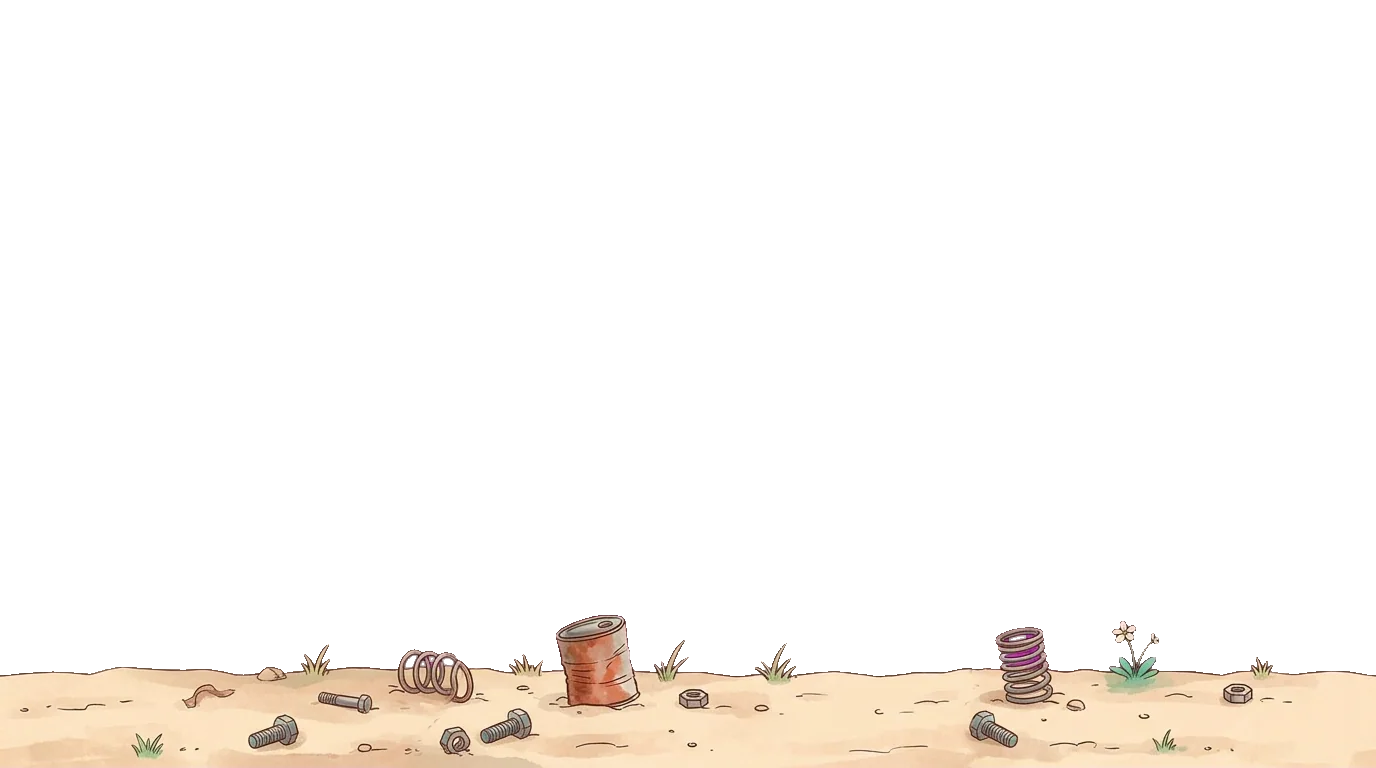
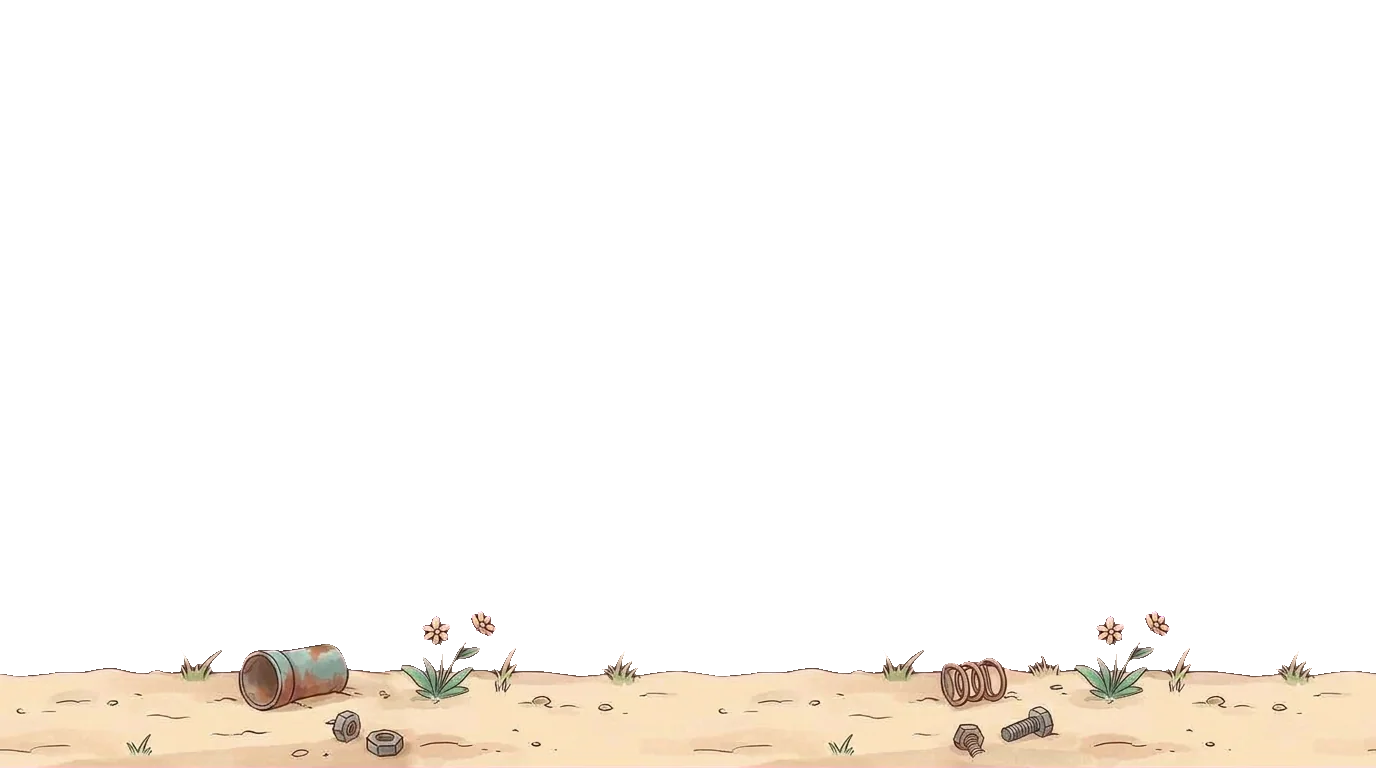
feat(junkyard): redrawn background bands without seams, first gear pictures

diff --git a/assets-src/PROMPTS.md b/assets-src/PROMPTS.md
@@ -237,7 +237,16 @@ Notes from real Gemini runs; add new ones here.
 - A cut-out of a beard (2026-11-09) once came with a second, pixelated copy of it around the first; asking
   again with "keep ONE beard, do not add a second beard or any other shape, smooth, not pixelated" was
   clean. A beard on the template gets its own drawn mouth in the moustache; ask for "only hair, no mouth".
-
+- Redrawing a world's layers clean (junkyard, 2026-11-15): the old layer (far) or the old sheet of strips
+  (mid, near) attached with "redraw clean, copying the composition is wanted" came back with the same
+  content and style on the first try. Attach the old **sheet**, not the processed layer (a strip at the
+  bottom of a tall magenta frame), so the answer is a sheet again. The mid sheet came on a dull pink key
+  (233,61,184) again although "pure magenta #FF00FF, not dull pink" was asked, and the near strips again
+  stopped about 30 px short of both side edges; `strips` + `quilt` handle both.
+- The far layer can be joined without Gemini: `prep <far> <dir> 0.14` and `quilt <dir> <far> <out>` with the
+  far itself as donor filled the middle with a slice of the same scene, the sky one tone across the gap
+  (junkyard, 2026-11-15, when the daily limit stopped the seam repaint). A few barrels show twice, which
+  reads as a row of barrels; a scene with one big landmark in the slice would show it twice.
 ---
 
 ## 1. Tapko and friends (companions)
@@ -952,9 +961,9 @@ first, then attach it to the other prompts ("the same robot as in the attached i
 ### Backgrounds (section 3 prompts)
 | File | SCENE / LAYER | Height | Status |
 |---|---|---|---|
-| `bg-junkyard-far.jpg` | a friendly junkyard in soft daylight with soft hills of old things far away, a rusty but cheerful crane and a light blue sky | full | done 2026-10-22 |
-| `bg-junkyard-mid.jpg` | soft piles of old tires, wooden crates and round metal cans | 45 % | |
-| `bg-junkyard-near.jpg` | a few big coiled metal springs, large bolts and nuts and thick grass tufts | 25 % | done 2026-10-22 (reference for the strip prompt) |
+| `bg-junkyard-far.jpg` | a friendly junkyard in soft daylight with soft hills of old things far away, a rusty but cheerful crane and a light blue sky | full | redone 2026-11-15 (the old layer attached, "redraw clean, copying the composition is wanted"; seam by `quilt` from itself with a 14 % gap, as the daily limit was reached before a Gemini seam repaint: the sky stays one tone) |
+| `bg-junkyard-mid.jpg` | soft piles of old tires, wooden crates and round metal cans | 45 % | redone 2026-11-15 (the old sheet attached; sheet of two strips on a dull pink key, turned to #FF00FF locally; strip 1 quilted with itself, lifted 81 px) |
+| `bg-junkyard-near.jpg` | a few big coiled metal springs, large bolts and nuts and thick grass tufts | 25 % | redone 2026-11-15 (the old sheet attached; strip 3 of three quilted with itself; its sand from row 675 as before) |
 | `bg-workshop-far.jpg` | the inside of a warm cozy workshop with wooden walls, shelves with jars of screws, hanging tools and a round window | full | |
 | `bg-workshop-mid.jpg` | a workbench with drawers and a vise, a tool cabinet, a mint toolbox, stacked crates, a pegboard with tools, a drill press, a stool and a barrel with rods | 45 % | done 2026-10-23 |
 | `bg-workshop-near.jpg` | a conveyor belt across the whole image with rollers below, and on it in one row a gear, an open crate, a robot arm part, copper wire, a box of bolts, a wheel, a battery and a small robot head; nothing behind them | 25 % | done 2026-10-23 |
@@ -978,6 +987,19 @@ first, then attach it to the other prompts ("the same robot as in the attached i
 | `obj-spring.jpg` | a big coiled metal spring with a friendly face, bouncing | magenta |
 | `obj-magnet.jpg` | a red and silver horseshoe magnet hanging on a short chain from above | green |
 | `obj-cable-knot.jpg` | a big tangled knot of soft colorful cables with a friendly face | magenta |
+| | **World 6 rework (plan `.todo/junkyard-world.md`, 2026-11-15):** the section 4 prompt with "NO face, NO eyes, no mouth: it is a plain thing." instead of its friendly-faces sentence, and "no numbers" added to its no-text sentence | |
+| `obj-gear-1.jpg` | ONE old golden gear (warm gold #E8B848, darker #B8862E), a little worn, with a round hole in the middle. Strictly front view, not tilted; NOTHING else (done, first try) | magenta |
+| `obj-gear-2.jpg` | ONE old steel gear in blue-grey steel (#A9B7C6, darker #6F7F92, light #DCE4EC), with more and smaller teeth and a few round holes in its body; as gear 1 otherwise (done, first try) | magenta |
+| `obj-gear-3.jpg` | ONE old copper gear (warm copper #C8743E, darker #8E4A24, light #E9A06A) with a few big chunky teeth and spokes in the middle; as gear 1 otherwise (done, first try) | magenta |
+| `obj-gear-4.jpg` | ONE old gear painted bright blue (#3F7FD0, darker #2A5A9E), the paint a little chipped at the teeth so grey metal shows, with a round hole in the middle; as gear 1 otherwise | magenta |
+| `obj-gear-box.jpg` | ONE brown cardboard box, its four top flaps standing open upward, empty, with a simple dark brown gear sign printed on its front side. Front view, a little from above; NOTHING else, nothing in or around the box | magenta |
+| `obj-tire-pile-1.jpg` | ONE big pile of old dark grey rubber car tires stacked and leaning on each other, about as wide as tall. Side view; NOTHING else: no grass, no ground, no other junk | magenta |
+| `obj-tire-pile-2.jpg`, `-3` | **attach `obj-tire-pile-1.jpg`**: "draw a pile of old tires in exactly the same drawing style, colors and outline as the attached pile, but smaller: about half as big (2) / a small pile of only two or three tires (3); NO face, NOTHING else" | magenta |
+| `obj-bin.jpg` | ONE old round metal rubbish bin in blue-grey steel (#A9B7C6, darker #6F7F92), open: its round lid leans tilted on the bin's rim, empty inside. Side view, a little from above; NOTHING else, no rubbish around it | magenta |
+| `obj-screw-pile.jpg` | ONE low wide pile of old screws, nuts and small gears in blue-grey steel (#A9B7C6, darker #6F7F92) with a few copper and brass ones, about three times wider than tall. Side view; NOTHING else: no ground, no grass | magenta |
+| `obj-junk-pile-1.jpg` | ONE big pile of mixed old things in a junkyard: a wooden crate, an old tire, a rusty tin can, a bent pipe, a wheel, a spring and a metal plate, heaped together, a bit wider than tall. Side view; NOTHING else: no grass, no ground | magenta |
+| `obj-junk-pile-2.jpg`, `-3` | **attach `obj-junk-pile-1.jpg`**: as the tire piles 2 and 3, "a pile of mixed old things ... about half as big (2) / a small heap of only three or four things (3)" | magenta |
+| `robot-broken-lying.jpg` | **attach `robot-broken.jpg`**, the section 4 prompt without its face sentence: "the same small round robot as in the attached picture, in exactly the same drawing style and colors (light grey-blue metal body, soft rust spots, one leg missing, bent antenna with a tiny orange ball, small claw hands, rivets), but switched off and lying flat on his back on the ground, seen from the side: his head on the left, his one leg on the right, his body horizontal, arms resting at his sides. The body pose must be completely different from the attached picture: clearly lying, not standing, not sitting. His dark glass face is dark and empty: the eyes are switched off, no glowing eyes, no light"; "no ground line" added to the background sentence | magenta |
 | **Workshop** | | |
 | `obj-gear.jpg` | a shiny golden gear | magenta |
 | `obj-bolt.jpg` | a big silver bolt with a nut | magenta |

diff --git a/.todo/junkyard-world.md b/.todo/junkyard-world.md
@@ -177,10 +177,18 @@ first level.
   story" spec now checks Bolt walking in the workshop's first level.
 
 ### Step 2 - Pictures and backgrounds
-- [ ] Prompts into section 7, generation via skill `gemini-images` in a subagent, backgrounds by
+- [x] Prompts into section 7, generation via skill `gemini-images` in a subagent, backgrounds by
   the section 3 procedure, the magenta pixel check, `npm run assets`; lessons recorded.
-- [ ] Checks: `npm run assets` clean, a screenshot of a world 6 level (still the placeholder) with
-  the new bands, the seams looked at in `preview`.
+- [x] Checks: `npm run assets` clean, the seams looked at in `preview`.
+
+- Progress (2026-11-15): backgrounds and `obj-gear-1..3` done; Gemini's daily limit stopped the
+  rest, which moved to step 5b (the modes draw their fallbacks until then). Decisions: the far
+  seam was joined by `quilt` with the far picture as its own donor (no Gemini repaint, limit);
+  mid is strip 1 of the redrawn sheet lifted 81 px, near strip 3; the near band keeps the old
+  height (sand from row 675, the character's path unchanged). Seam scores far 7.1 (old 11.0),
+  mid 2.5, near 0.2; magenta pixels in the final webp 0 in every layer (the old mid had 22).
+  Old raw layers kept in `assets-src/bg-work/junkyard/old/`. The in-game look of the bands is
+  checked with the step 3 play-through.
 
 ### Step 3 - 6:1 gears and 6:2 tires
 - [ ] Kinds `gears`, `tires` in `levels.ts`, modes in `junkyard.ts`, registered in `modes.ts`,
@@ -201,6 +209,16 @@ first level.
   the slip adding a word, Bolt's lights and getting up.
 - [ ] Tests: unit test of the transcribe line breaking and the added words cap, idle tests,
   `npm run test:affected`; both played in the browser to the reward scene.
+
+### Step 5b - The pictures Gemini's limit left out
+- [ ] `obj-gear-4`, `obj-gear-box`, `obj-tire-pile-1..3`, `obj-bin`, `obj-screw-pile`,
+  `obj-junk-pile-1..3`, `robot-broken-lying` (prompts in `assets-src/PROMPTS.md` section 7,
+  "World 6 rework"). Seven were queued in the bridge on 2026-11-15 (gemini_status job ids
+  gmwi4xykq24a3d8, gmwi4hrjl7383c5, gmwi4htpg27fd3f, gmwi4hvz9a6f022, gmwi4hydi6accd7,
+  gmwi4i0ub180d84, gmwi4i40e408266) and may already be saved unreviewed in `assets-src/`: review
+  each (subject, no face, clean magenta, whole object), redo bad ones, then the piles' stages 2-3
+  with stage 1 attached; `npm run assets`, PROMPTS.md status. In a subagent.
+- [ ] Checks: the modes pick up the pictures (a screenshot of 6:1, 6:2, 6:4 in the browser).
 
 ### Step 6 - Full verification and done
 - [ ] `npm run build`, `npm test`, `npm run test:affected -- --base <commit before step 1>`, the
